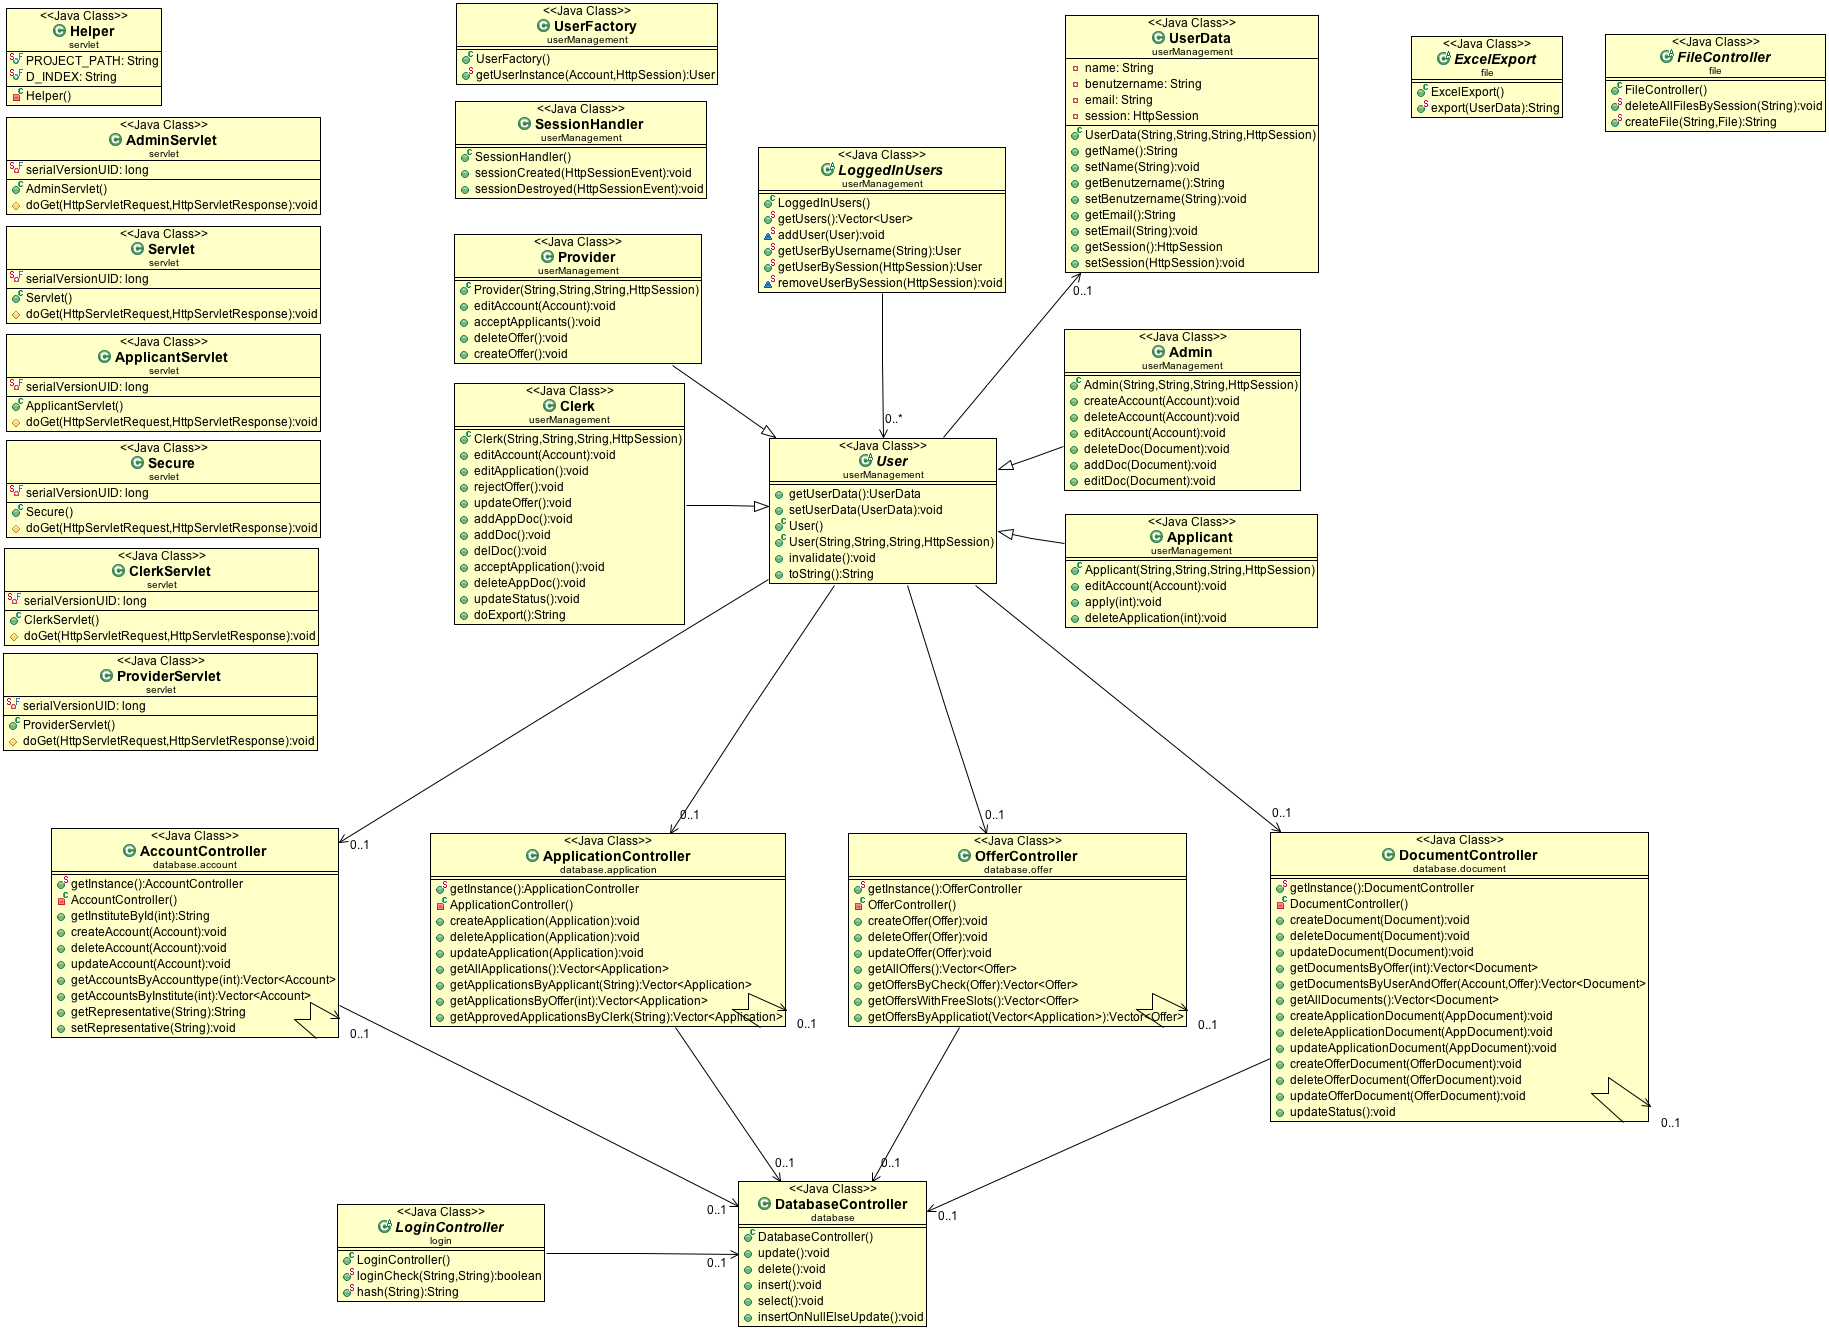
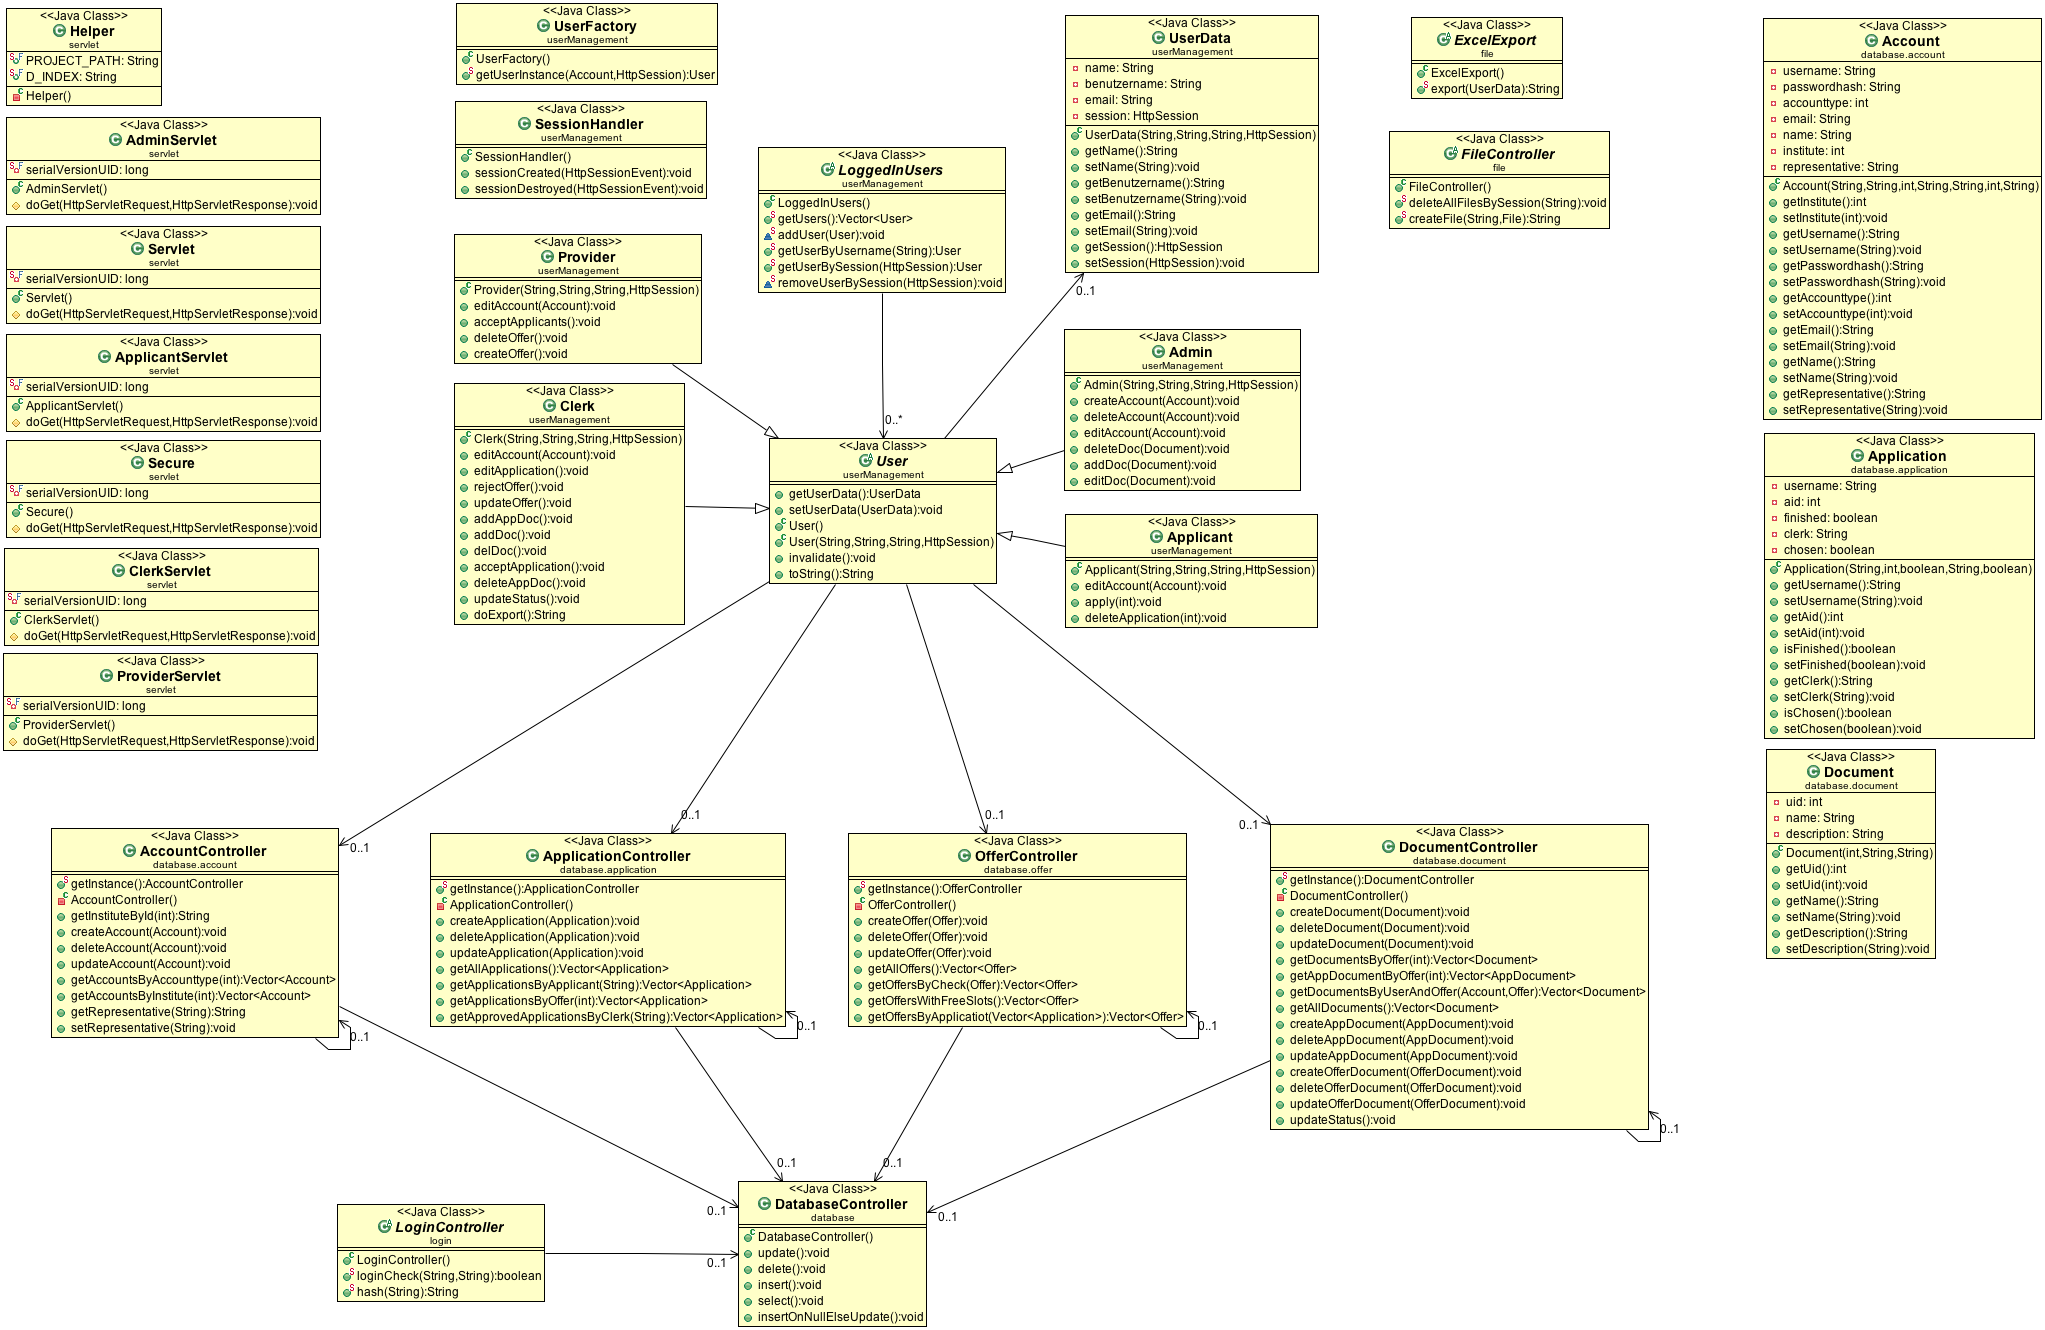
offerdocument gemacht

diff --git a/src/database/application/Application.java b/src/database/application/Application.java
@@ -20,7 +20,7 @@ public class Application {
 	/**
 	 * Der Status der Bewerbung.
 	 */
-	private boolean status;
+	private boolean finished;
 	
 	/**
 	 * Der zustaendige Sachbearbeiter der Bewerbung.
@@ -52,7 +52,7 @@ public class Application {
 		super();
 		this.username = username;
 		this.aid = aid;
-		this.status = status;
+		this.finished = status;
 		this.clerk = clerk;
 		this.chosen = chosen;
 	}
@@ -97,12 +97,12 @@ public class Application {
 	}
 
 	/**
-	 * Gibt den Status (geprueft oder ungeprueft) der Bewerbung zurueck.
+	 * Gibt den zurueck ob die Bewerbung abgeschlossen ist.
 	 * 
-	 * @return true falls geprueft, false falls ungeprueft.
+	 * @return true falls abgeschlossen, false falls noch laufend.
 	 */
-	public boolean isStatus() {
-		return status;
+	public boolean isFinished() {
+		return finished;
 	}
 
 	/**
@@ -111,8 +111,8 @@ public class Application {
 	 * @param status
 	 *            Gewuenschter Bewerbungsstatus.
 	 */
-	public void setStatus(boolean status) {
-		this.status = status;
+	public void setFinished(boolean status) {
+		this.finished = status;
 	}
 
 	/**

diff --git a/src/database/document/OfferDocument.java b/src/database/document/OfferDocument.java
@@ -8,4 +8,52 @@ package database.document;
  */
 public class OfferDocument {
 
+	/**
+	 * AngebotsID
+	 */
+	private int offerID;
+	/**
+	 * Document ID
+	 */
+	private int documentID;
+	/**
+	 * StandardKonstruktor
+	 * @param offerID AngebotsID
+	 * @param documentID UnterlagenID
+	 */
+	public OfferDocument(int offerID, int documentID) {
+		super();
+		this.offerID = offerID;
+		this.documentID = documentID;
+	}
+	/**
+	 * Gibt die AngebotsID zurueck
+	 * @return AngebotsID
+	 */
+	public int getOfferID() {
+		return offerID;
+	}
+	/**
+	 * Setzt die AngebotsID
+	 * @param offerID AngebotsID
+	 */
+	public void setOfferID(int offerID) {
+		this.offerID = offerID;
+	}
+	/**
+	 * Gibt die UnterlagenID zurueck
+	 * @return UnterlagenID
+	 */
+	public int getDocumentid() {
+		return documentID;
+	}
+	/**
+	 *  Setzt die UnterlagenID
+	 * @param documentID UnterlagenID
+	 */
+	public void setDocumentid(int documentID) {
+		this.documentID = documentID;
+	}
+
+	
 }
